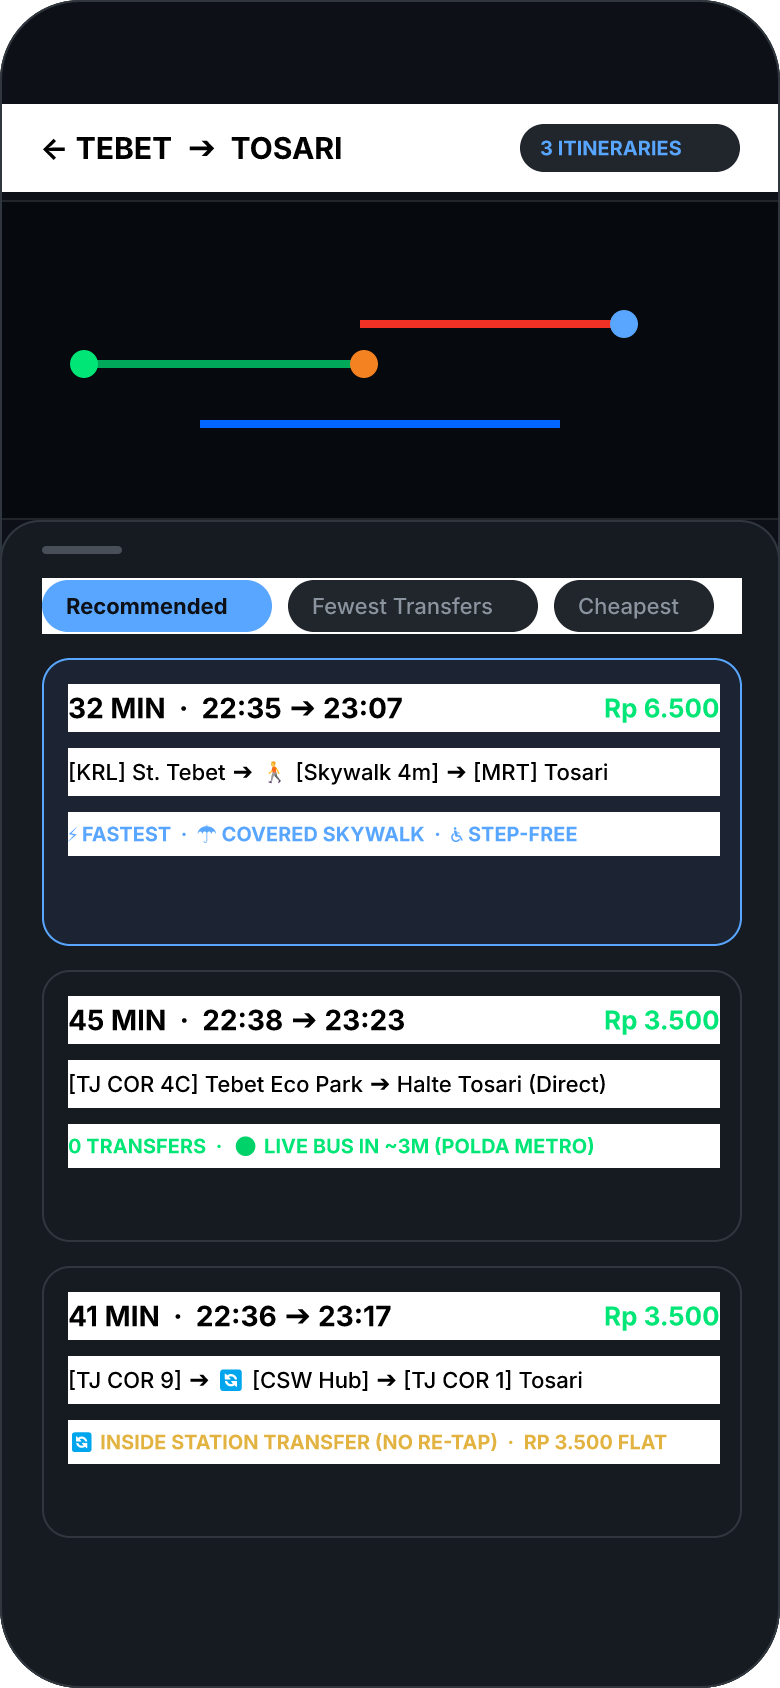
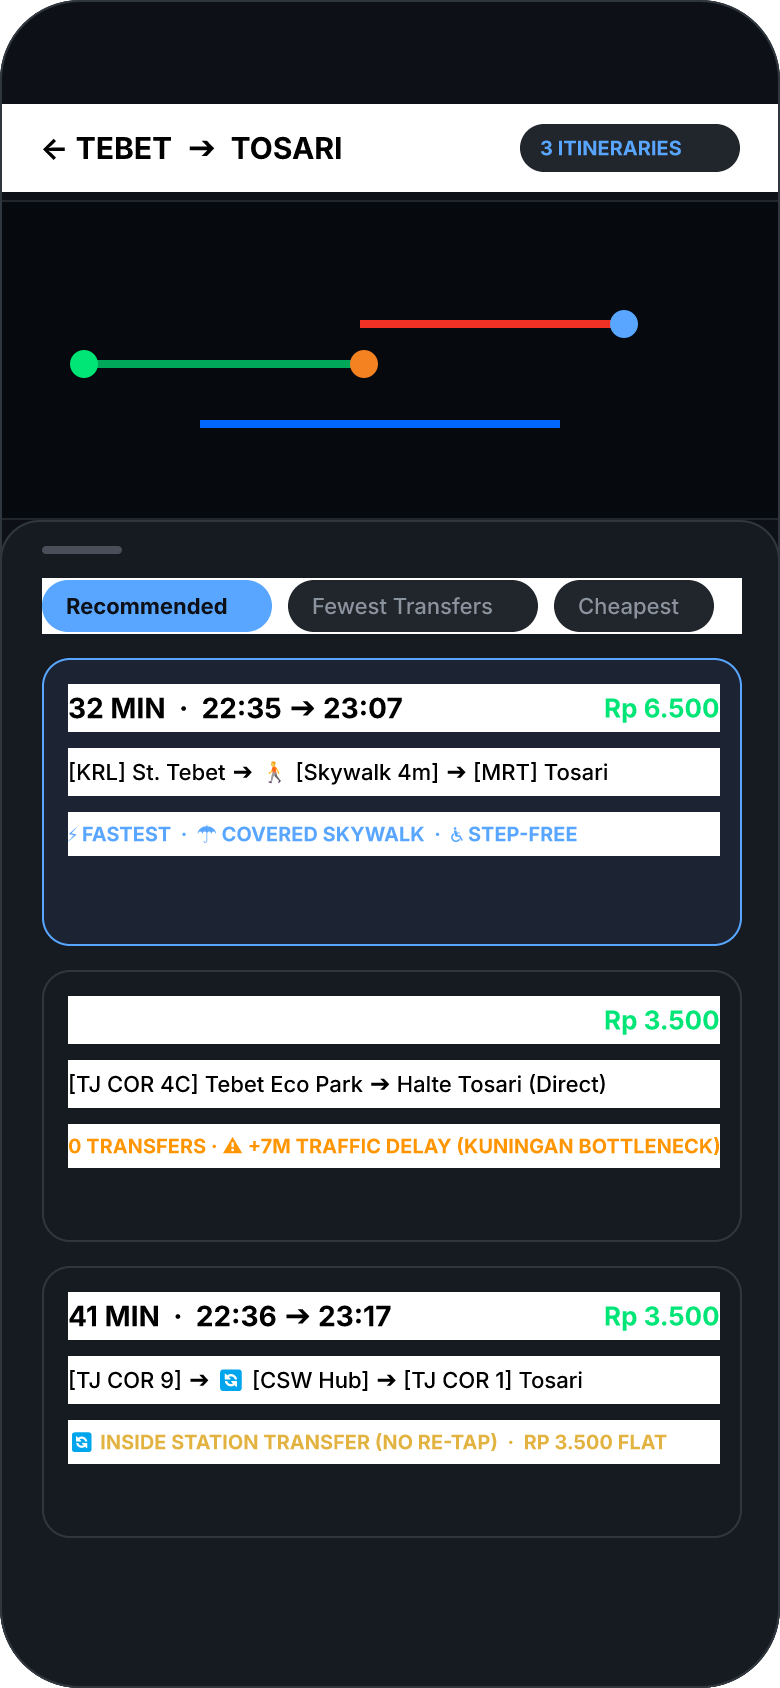
feat(routing): integrate recounted telemetry into end-to-end itinerary travel time and update FigCraft Screen 2

diff --git a/docs/adr/0005-recounted-traffic-aware-eta-engine.md b/docs/adr/0005-recounted-traffic-aware-eta-engine.md
@@ -8,12 +8,13 @@ Transjakarta's official consumer API and MQTT payloads frequently broadcast arri
 - The bus may be completely stationary behind multiple traffic lights (e.g. Kuningan Barat or Mampang Prapatan).
 - The official backend often computes ETAs by dividing distance by nominal free-flow speed ($40\text{ km/h}$) or reading scheduled timetable offsets without accounting for real-time congestion.
 - When an app promises "3 mins" and the commuter waits 14 minutes, trust in the application collapses.
+- Crucially, if this false precision is only corrected at the stop level, the **journey planner's total travel time comparison** remains broken (e.g. advertising a "45-minute direct bus" that actually takes 58 minutes due to current traffic).
 
-Because we receive raw GPS coordinates (`latitude`, `longitude`, `speed_kmh`, `timestamp`) directly from the MQTT telemetry broker, we have the complete capability to **recalculate and recount the true arrival ETA** independently.
+Because we receive raw GPS coordinates (`latitude`, `longitude`, `speed_kmh`, `timestamp`) directly from the MQTT telemetry broker, we have the complete capability to **recalculate and recount the true arrival ETA** independently, both for bus stop arrival countdowns AND for end-to-end itinerary travel time estimations.
 
 ## Decision
 
-1. **Independent Recount Algorithm**:
+1. **Independent Stop Arrival Recount**:
    Never display the raw API arrival minute value directly. Instead, compute an independent **Recounted ETA**:
 
    $$\text{ETA}_{\text{recounted}} = \sum_{s \in \text{remainingSegments}} \left( \frac{\text{length}(s)}{v_{\text{expected}}(s, t)} \right) + N_{\text{intermediateStops}} \times t_{\text{dwell}} + t_{\text{choke}}$$
@@ -25,17 +26,31 @@ Because we receive raw GPS coordinates (`latitude`, `longitude`, `speed_kmh`, `t
    - **Halte Dwell Penalty ($t_{\text{dwell}}$)**: Add $+35\text{ seconds}$ per intermediate halte for passenger board/alight.
    - **Chokepoint Multiplier ($t_{\text{choke}}$)**: Calibrated delays for notoriously congested intersections (e.g., Mampang-Kuningan, Semanggi loop, Harmoni).
 
-2. **Transparent Commuter UI Presentation (Apple Design)**:
-   - Show an **honest minute range** rather than a single false minute (e.g., **`8–11 MIN`**).
-   - Surface the physical reason with landmark context:
-     `"Bus is stationary at Kuningan West junction (0 km/h for 85s). Remaining 1.4 km has 2 intermediate stops."`
-   - Explicitly clarify discrepancy: `(Official API claimed "3 min" ⚠ delayed by intersection traffic)`.
+2. **Application to End-to-End Itinerary Travel Time Estimation**:
+   When evaluating candidate itineraries in the journey planner, total travel duration is dynamically recounted:
+
+   $$\text{Total Duration} = t_{\text{originWalk}} + \text{ETA}_{\text{boardRecounted}} + \sum_{\text{legs}} t_{\text{transitLive}} + \sum_{\text{transfers}} t_{\text{transfer}} + t_{\text{destWalk}}$$
+
+   - **Initial Boarding Delay Integration**: If the first bus is delayed by $+7$ minutes at an intersection, the departure time and total duration shift accordingly (e.g. nominal 45 min becomes **`52 MIN (+7m traffic delay)`**).
+   - **En-Route Segment Dilation**: For in-vehicle bus transit legs traversing active chokepoint segments where rolling speed is depressed, leg durations are scaled by the current traffic delay factor.
+   - **Dynamic Pareto Re-Ranking**: If traffic congestion causes a bus route to suffer major delays, the routing engine automatically re-ranks alternative routes (e.g. Rail + Skywalk transfers) as the faster recommended choice.
+
+3. **Transparent Commuter UI Presentation (Apple Design)**:
+   - **Stop Radar View (Screen 3)**:
+     - Shows honest range: **`8–11 MIN`** *(Recounted from live GPS & traffic)*.
+     - Explains physical context: `"Bus TJ-204 is stationary at Kuningan West junction (0 km/h for 85s). Remaining 1.4 km has 2 intermediate stops."`
+     - Muted note: `(Official API claimed "3 min")`.
+   - **Itinerary Card View (Screen 2)**:
+     - Total duration explicitly displays the live traffic offset:
+       `52 MIN (+7m traffic) · 22:45 ➔ 23:37`
+     - Highlights badge: `0 TRANSFERS · ⚠ +7M TRAFFIC DELAY (KUNINGAN BOTTLENECK)`.
 
 ## Consequences
 
 ### Positive
 - High commuter trust: Accurately sets passenger expectations during rush hours.
-- Clear mental model: Commuters see *why* the bus is taking 8 minutes instead of wondering if the app is frozen.
+- Prevents bad journey recommendations: Commuters aren't steered onto a bus trapped in gridlock when rail is running smoothly.
+- Clear mental model: Commuters see *why* an itinerary takes 52 minutes instead of 45 minutes.
 - Fully client-side: Executes in milliseconds inside the browser Web Worker without requiring server compute.
 
 ### Negative / Trade-offs

diff --git a/docs/COMMUTER-UI-UX-SPEC.md b/docs/COMMUTER-UI-UX-SPEC.md
@@ -9,7 +9,7 @@
 The prototype screens are authored in **FigCraft** and exported to the repository:
 - **FigCraft File**: [design/tj-navigator.figcraft](file:///c:/Users/Ricky/Documents/tj-navigator/design/tj-navigator.figcraft)
 - **Screen 1 (Search & Live Radar)**: [design/screen-01-home.png](file:///c:/Users/Ricky/Documents/tj-navigator/design/screen-01-home.png)
-- **Screen 2 (Pareto Itineraries & Map Canvas)**: [design/screen-02-results.png](file:///c:/Users/Ricky/Documents/tj-navigator/design/screen-02-results.png)
+- **Screen 2 (Pareto Itineraries & Map Canvas with Recounted Travel Time)**: [design/screen-02-results.png](file:///c:/Users/Ricky/Documents/tj-navigator/design/screen-02-results.png)
 - **Screen 3 (Apple Fluid Live Radar & Recounted Traffic ETA)**: [design/screen-03-apple-radar.png](file:///c:/Users/Ricky/Documents/tj-navigator/design/screen-03-apple-radar.png)
 
 ---
@@ -35,9 +35,27 @@ Following the `/apple-design` skill:
 
 ---
 
-## 3. Screen 3: Apple Fluid Live Radar & Recounted ETA
+## 3. Screen 2: Recounted Travel Time on Candidate Itineraries
 
-### 3.1 The "Why the Bus is Delayed" Solution
+End-to-end trip duration incorporates live recounted vehicle telemetry and traffic bottlenecks:
+- **Card 1 (Fastest / Recommended - KRL + MRT)**:
+  - `32 MIN` · `Rp 6.500` · `22:35 ➔ 23:07`
+  - Flow: `[KRL] St. Tebet ➔ 🚶 [Skywalk 4m] ➔ [MRT] Tosari`
+  - Badges: `⚡ FASTEST` · `☂ COVERED SKYWALK` · `♿ STEP-FREE`
+- **Card 2 (Direct BRT - Recounted Live Delay)**:
+  - **`52 MIN (+7m traffic)`** · `Rp 3.500` · `22:45 ➔ 23:37` *(Adjusted from nominal 45m)*
+  - Flow: `[TJ COR 4C] Tebet Eco Park ➔ Halte Tosari (Direct)`
+  - Badges: `0 TRANSFERS` · `⚠ +7M TRAFFIC DELAY (KUNINGAN BOTTLENECK)`
+- **Card 3 (Lowest Fare - Inside Station Transfer)**:
+  - `41 MIN` · `Rp 3.500` · `22:36 ➔ 23:17`
+  - Flow: `[TJ COR 9] ➔ 🔄 [CSW Hub] ➔ [TJ COR 1] Tosari`
+  - Badges: `🔄 INSIDE STATION TRANSFER (NO RE-TAP)` · `RP 3.500 FLAT`
+
+---
+
+## 4. Screen 3: Apple Fluid Live Radar & Recounted ETA
+
+### 4.1 The "Why the Bus is Delayed" Solution
 When the official API claims *"Arrives in 3 mins"*, commuters are often misled by traffic jams. Screen 3 implements our **Recounted Traffic-Aware ETA Engine**:
 1. **Dynamic Island / Top Bar**:
    - `HALTE TOSARI (CORRIDOR 1)` with glass circular back button (`‹`) and info button.

diff --git a/GLOSSARY.md b/GLOSSARY.md
@@ -20,6 +20,12 @@ A single continuous segment of travel within an itinerary using one mode and veh
 ### Transfer
 The transition between two consecutive transit legs. May involve changing platforms within the same station, or walking through an inter-modal **Transfer Hub**.
 
+### RecountedJourneyDuration
+The end-to-end trip duration adjusted in real-time by integrating live vehicle telemetry and traffic bottleneck delays into both the boarding wait time and the in-vehicle transit legs.
+
+### TrafficDelayOffset
+The difference between nominal scheduled transit time and live recounted conditions (e.g. `+7 minutes` caused by Kuningan West bottleneck).
+
 ---
 
 ## 2. Transit Network & Infrastructure
